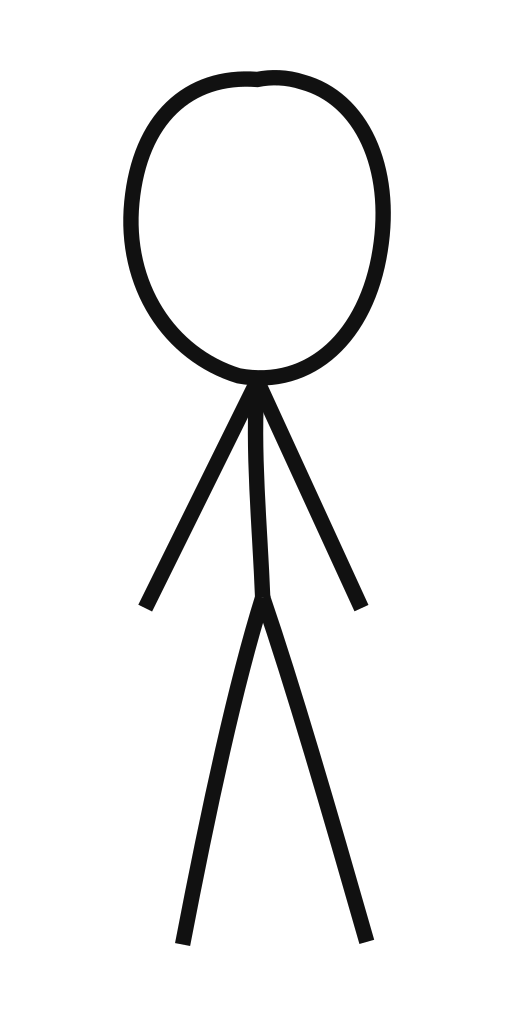
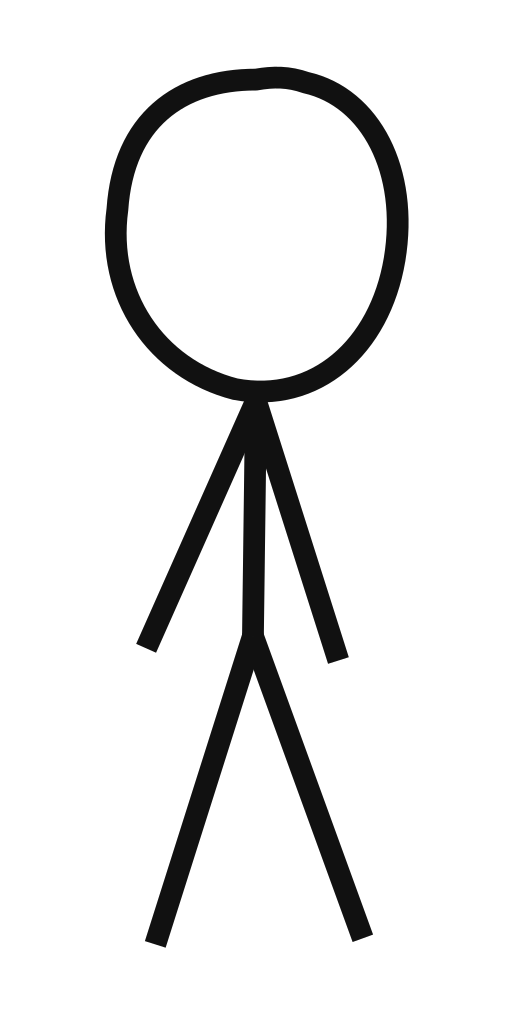
Calibrate standing character to reference pixels

Changed region(s): [[0.1875, 0.0625, 0.8125, 0.9375], [0.2812, 0.6875, 0.4688, 0.9375]]

diff --git a/tests/test_standing_asset.py b/tests/test_standing_asset.py
@@ -1,7 +1,10 @@
 from pathlib import Path
 from xml.etree import ElementTree as ET
 
+import numpy as np
 from PIL import Image
+from scipy import ndimage
+from skimage.morphology import skeletonize
 from svgelements import Path as SVGPath
 
 
@@ -36,9 +39,9 @@ def test_standing_svg_exists_with_named_vector_parts() -> None:
     assert all(not element.tag.endswith("image") for element in root.iter())
 
 
-def test_standing_svg_uses_line_width_twelve() -> None:
+def test_standing_svg_uses_calibrated_source_stroke_width() -> None:
     style_group = next(element for element in _root() if element.tag.endswith("g"))
-    assert float(style_group.attrib["stroke-width"]) == 12
+    assert float(style_group.attrib["stroke-width"]) == 17
 
 
 def test_standing_arms_are_straight_and_share_the_head_base_joint() -> None:
@@ -51,6 +54,42 @@ def test_standing_arms_are_straight_and_share_the_head_base_joint() -> None:
     assert abs(left_path.first_point.y - head_path.bbox()[3]) <= 4
 
 
+def test_standing_hands_end_below_the_leg_joint() -> None:
+    _, head_path = _group_path("head")
+    head_height = head_path.bbox()[3] - head_path.bbox()[1]
+    _, left_arm = _group_path("left-arm")
+    _, right_arm = _group_path("right-arm")
+    _, left_leg = _group_path("left-leg")
+    leg_joint_y = left_leg.first_point.y
+    hand_offsets = [
+        arm_path.bbox()[3] - leg_joint_y for arm_path in (left_arm, right_arm)
+    ]
+    assert all(0 < offset <= 0.10 * head_height for offset in hand_offsets)
+
+
+def test_standing_svg_matches_measured_reference_proportions() -> None:
+    _, head = _group_path("head")
+    head_left, head_top, head_right, head_bottom = head.bbox()
+    head_width = head_right - head_left
+    head_height = head_bottom - head_top
+    _, torso = _group_path("torso")
+    _, left_arm = _group_path("left-arm")
+    _, right_arm = _group_path("right-arm")
+    _, left_leg = _group_path("left-leg")
+    _, right_leg = _group_path("right-leg")
+
+    def segment_ratio(path: SVGPath) -> float:
+        end = path[-1].end
+        return abs(end - path.first_point) / head_height
+
+    assert 1.10 <= head_height / head_width <= 1.14
+    assert 0.82 <= segment_ratio(left_arm) <= 0.87
+    assert 0.82 <= segment_ratio(right_arm) <= 0.87
+    assert 0.70 <= segment_ratio(torso) <= 0.75
+    assert 0.95 <= segment_ratio(left_leg) <= 1.04
+    assert 0.95 <= segment_ratio(right_leg) <= 1.04
+
+
 def test_standing_png_is_vertical_and_transparent() -> None:
     assert PNG_PATH.is_file()
     with Image.open(PNG_PATH) as image:
@@ -59,3 +98,37 @@ def test_standing_png_is_vertical_and_transparent() -> None:
         assert rgba.size == (512, 1024)
         assert alpha.getextrema() == (0, 255)
         assert alpha.getpixel((0, 0)) == 0
+
+
+def test_standing_png_matches_four_x_reference_pixels() -> None:
+    with Image.open(PNG_PATH) as image:
+        rgba = np.array(image.convert("RGBA"))
+    dark = (
+        (rgba[:, :, 0] < 80)
+        & (rgba[:, :, 1] < 80)
+        & (rgba[:, :, 2] < 80)
+        & (rgba[:, :, 3] > 0)
+    )
+    rows, columns = np.where(dark)
+    figure_width = int(columns.max() - columns.min() + 1)
+    figure_height = int(rows.max() - rows.min() + 1)
+    assert 292 <= figure_width <= 308
+    assert 870 <= figure_height <= 882
+
+    skeleton = skeletonize(dark)
+    neighbors = (
+        ndimage.convolve(skeleton.astype(int), np.ones((3, 3), dtype=int), mode="constant")
+        - skeleton
+    )
+    visible_widths = 2 * ndimage.distance_transform_edt(dark)[skeleton & (neighbors <= 2)]
+    assert 22 <= float(np.median(visible_widths)) <= 25
+
+    white = (
+        (rgba[:, :, 0] > 240)
+        & (rgba[:, :, 1] > 240)
+        & (rgba[:, :, 2] > 240)
+        & (rgba[:, :, 3] > 0)
+    )
+    white_rows, white_columns = np.where(white)
+    assert 252 <= int(white_columns.max() - white_columns.min() + 1) <= 260
+    assert 284 <= int(white_rows.max() - white_rows.min() + 1) <= 292

diff --git a/src/xkcd_standing_asset.py b/src/xkcd_standing_asset.py
@@ -12,5 +12,5 @@ config.frame_height = 8
 
 class XKCDStandingAssetPreview(Scene):
     def construct(self) -> None:
-        character = SVGMobject(ASSET_PATH, height=6.8).move_to(ORIGIN)
+        character = SVGMobject(ASSET_PATH, height=6.78).move_to(ORIGIN)
         self.add(character)

diff --git a/docs/superpowers/specs/2026-07-12-cueball-standing-asset-design.md b/docs/superpowers/specs/2026-07-12-cueball-standing-asset-design.md
@@ -11,8 +11,8 @@ Add one reusable standing Cueball-style character asset based on the approved de
 
 ## Geometry and Style
 
-- Reuse the current approved elongated head, high leg joint, and extended leg proportions.
-- Use black strokes with `stroke-width="12"`, round caps, and round joins.
+- Match the supplied 126 × 242 reference by measured proportions rather than by eye: an elongated head, a high leg joint, hands ending just below that joint, and long legs.
+- Use black strokes with a calibrated SVG source width of `17`, round caps, and round joins. At the 512 × 1024 preview size, this produces a visible median width of about 22–23 pixels, corresponding to the reference's roughly 6-pixel line at 4× scale.
 - Head, torso, left arm, right arm, left leg, and right leg remain separate named SVG groups.
 - Both arms begin at the shared joint immediately below the head and descend as straight, independent strokes.
 - Arms may be slightly asymmetric in angle, but neither arm may contain a curved Bézier segment.
@@ -21,13 +21,14 @@ Add one reusable standing Cueball-style character asset based on the approved de
 
 ## Preview
 
-- Render a vertical transparent PNG with the complete character centered and fully visible.
+- Render a 512 × 1024 vertical transparent PNG with the complete character centered and fully visible.
+- Keep the rendered dark-pixel bounds close to 300 × 876 pixels and the enclosed white head area close to 256 × 288 pixels. Small antialiasing tolerances are allowed.
 - Include comfortable transparent padding without adding text, a speech leader, ground, or other props.
 - Keep the existing dialogue demo and its asset unchanged.
 
 ## Verification
 
-- Automated checks confirm the six named groups, vector-only content, line width 12, straight arm segments, shared head-base joint, and transparent PNG output.
+- Automated checks confirm the six named groups, vector-only content, calibrated source line width, straight arm segments, shared head-base joint, measured body ratios, transparent PNG output, and final pixel bounds.
 - Visual inspection confirms that both arms hang naturally downward and do not bow or curve.
 
 ## Non-Goals
